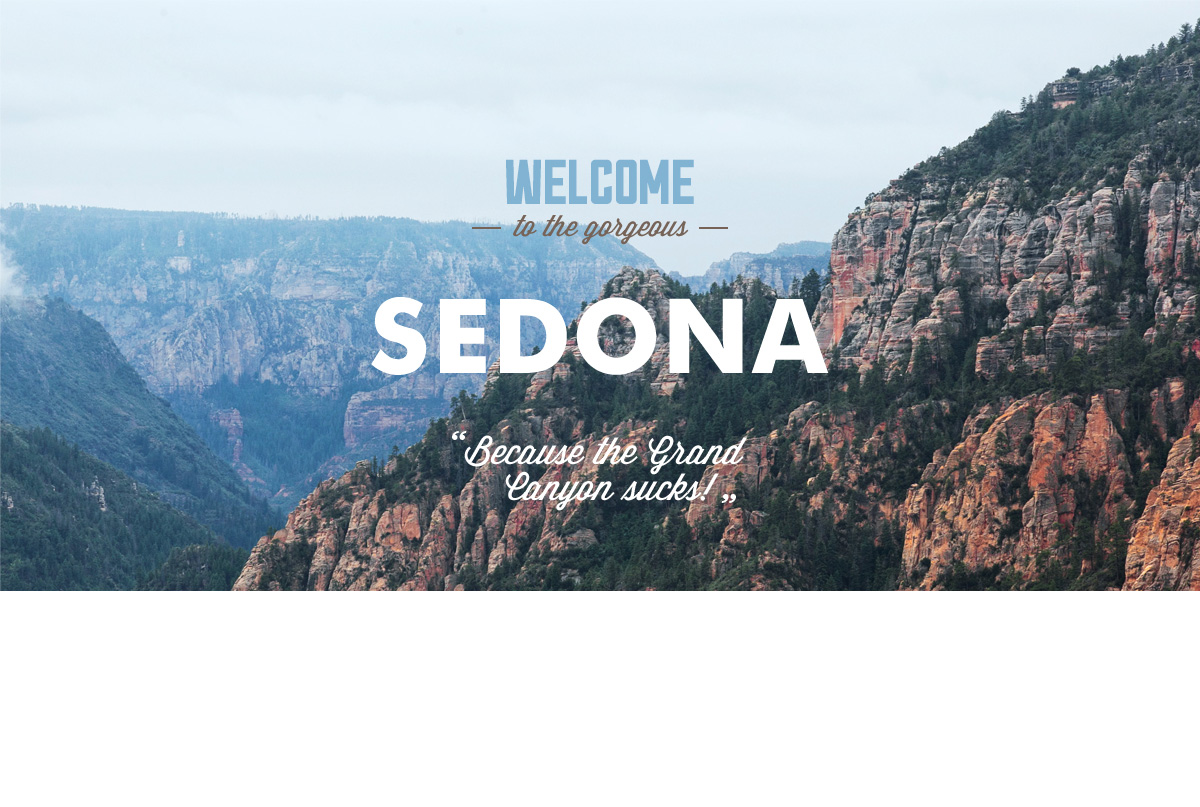
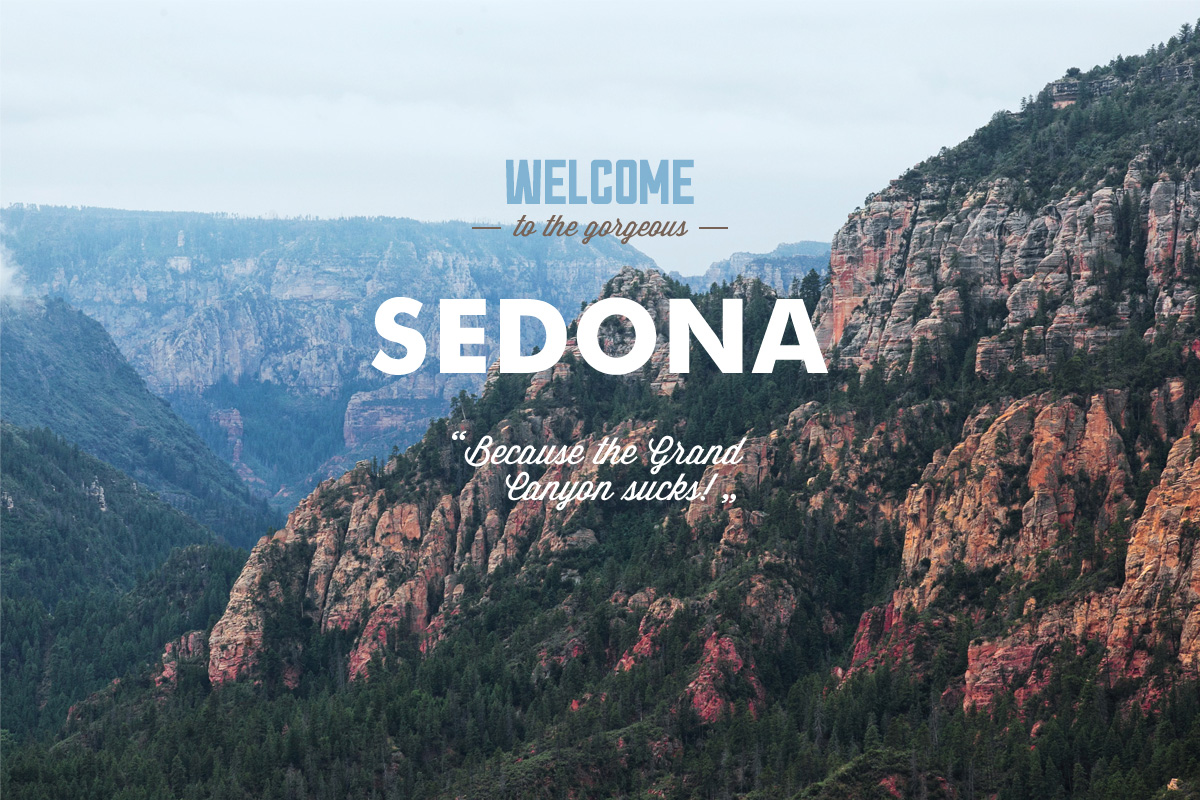
Добавил контентную картинку Седоны

diff --git a/index.html b/index.html
@@ -27,6 +27,8 @@
 
     <main>
       
+      <img src="img/main-pict.jpg" alt="Седона" width="1200" height="800">
+
       <section class="page-title">
         
         <h1>Седона - небольшой городок в Аризоне, заслуживающий большего!</h1>
